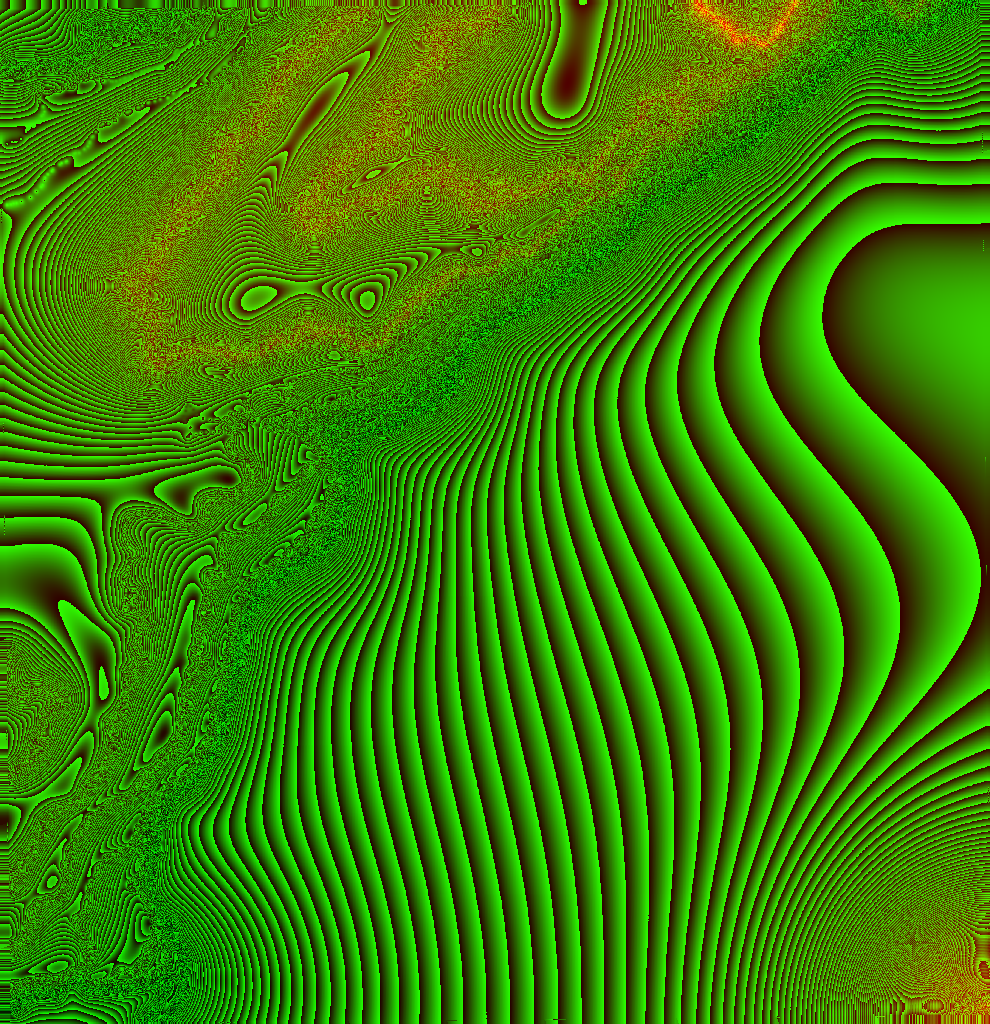
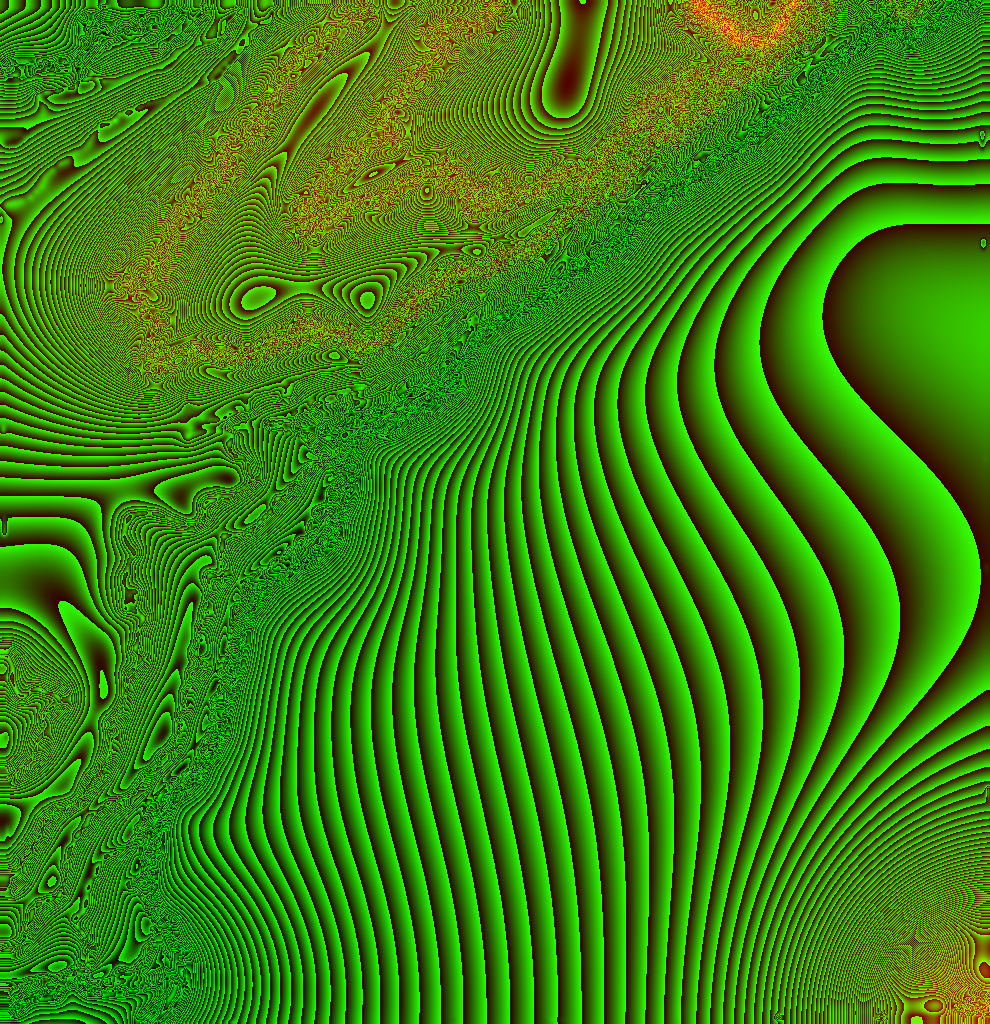
amelioration dem

diff --git a/dem_to_png.py b/dem_to_png.py
@@ -87,6 +87,8 @@ def main():
     ap.add_argument('--size', type=int, default=1024, help='côté max en pixels (défaut 1024)')
     ap.add_argument('--res', type=float, default=None, help='résolution en m/pixel (prioritaire sur --size)')
     ap.add_argument('--out', default='.', help='dossier de sortie (défaut : courant)')
+    ap.add_argument('--smooth', type=float, default=None,
+                    help='lissage du relief : sigma gaussien en mètres (défaut : 2 x la cellule ; 0 = brut)')
     a = ap.parse_args()
 
     print(f'Lecture de {a.input} ...')
@@ -153,6 +155,25 @@ def main():
             Z[fill] = s[fill] / c[fill]
             it += 1
         print(f'  Interpolation : dilatation ({it} passes, scipy absent)')
+
+    # Lissage (supprime les cônes/arêtes du TIN issus des points épars)
+    sm = a.smooth if a.smooth is not None else 2.0 * cell
+    if sm > 0:
+        sigma_px = sm / cell
+        try:
+            from scipy.ndimage import gaussian_filter
+            Z = gaussian_filter(Z, sigma=sigma_px, mode='nearest')
+            meth = 'gaussien scipy'
+        except ImportError:
+            it = max(1, min(40, int(round(1.5 * sigma_px * sigma_px))))
+            for _ in range(it):
+                Pd = np.pad(Z, 1, mode='edge')
+                Z = (Pd[:-2,:-2]+Pd[:-2,1:-1]+Pd[:-2,2:]+Pd[1:-1,:-2]+Pd[1:-1,1:-1]
+                     +Pd[1:-1,2:]+Pd[2:,:-2]+Pd[2:,1:-1]+Pd[2:,2:]) / 9.0
+            meth = f'box 3x3 x{it}'
+        print(f'  Lissage : sigma {sm:.1f} m ({meth})')
+    else:
+        print('  Lissage : désactivé (--smooth 0)')
 
     # Encodage 16 bits sur R+G
     v16 = np.clip(np.round((Z - zmin) / (zmax - zmin) * 65535), 0, 65535).astype(np.uint32)